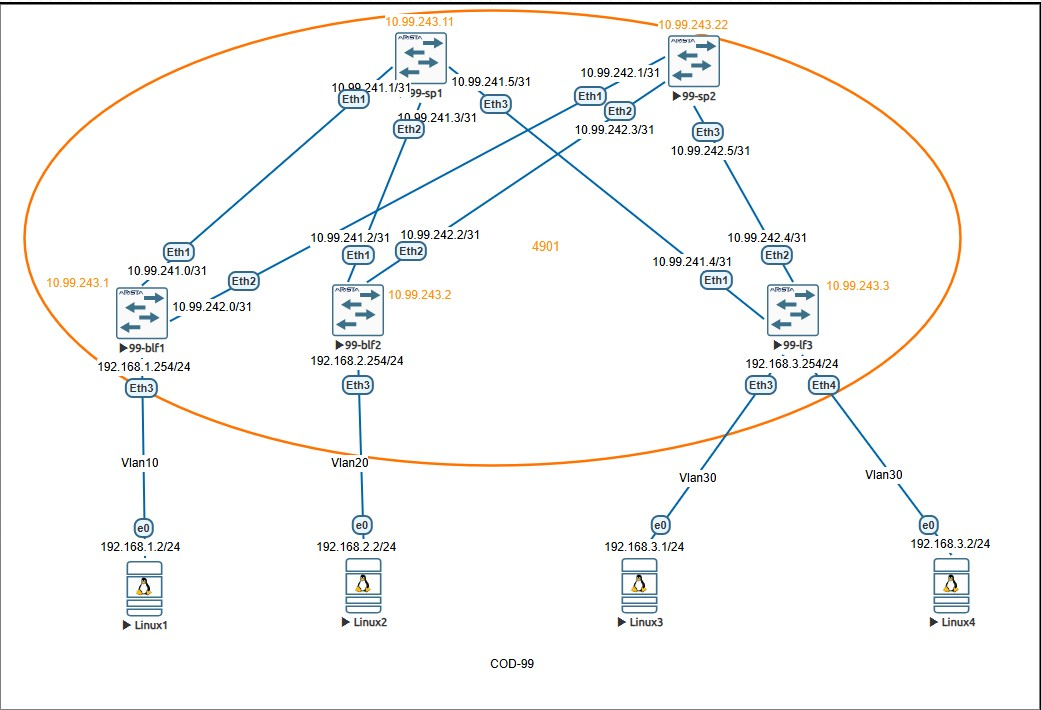
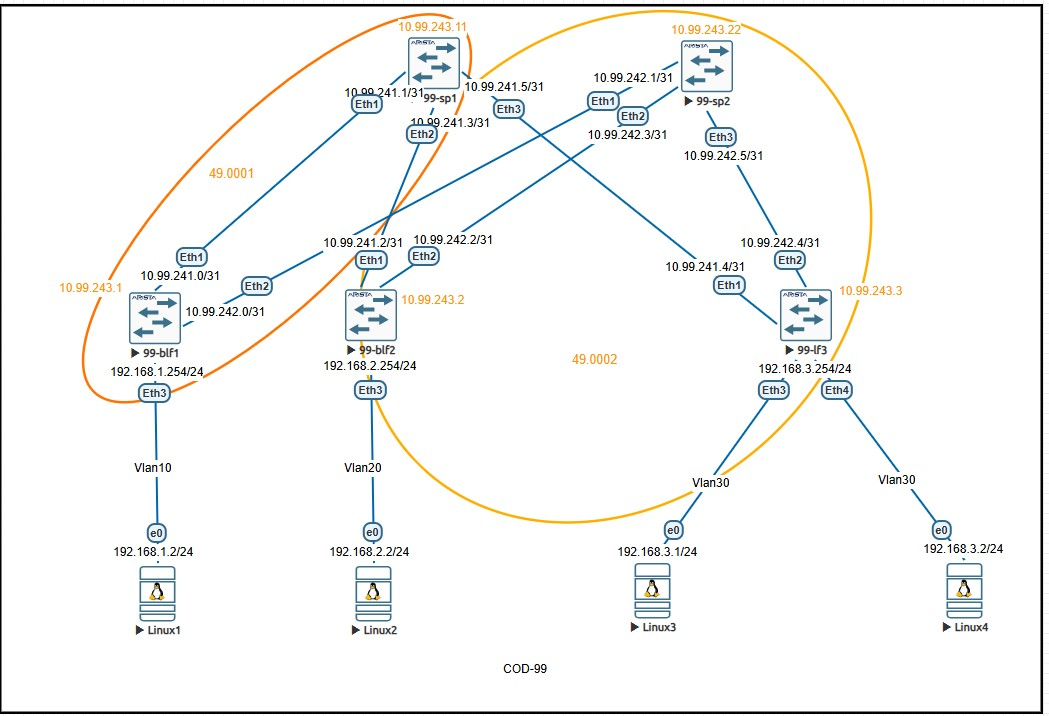
2

diff --git a/labs/lab_03(IS-IS)/README.md b/labs/lab_03(IS-IS)/README.md
@@ -132,6 +132,26 @@ interface Vlan10
  ### 99-blf2 (Border Leaf 2)
  ```bash
  configure terminal
+
+ ip routing
+
+router isis UNDERLAY
+   net 49.0002.0100.9924.3002.00
+   is-type level-1-2
+   
+   address-family ipv4 unicast
+      maximum-paths 4
+      redistribute ipv4 connected level-1
+      redistribute ipv4 connected level-2
+   
+   bfd all-interfaces
+   log-adjacency-changes
+   metric-style wide
+   hello-interval level-1 3
+   hello-interval level-2 1
+   hello-multiplier level-1 3
+   hello-multiplier level-2 3
+   
 vlan 20
    name SERVER-NETWORK-2
 
@@ -140,20 +160,25 @@ interface Ethernet1
    mtu 9194
    no switchport
    ip address 10.99.241.2/31
-   ip ospf dead-interval 3
-   ip ospf hello-interval 1
-   ip ospf network point-to-point
-   ip ospf area 0.0.0.0
+   isis enable UNDERLAY
+   isis circuit-type level-2-only
+   isis metric 10
+   isis network point-to-point
+   isis bfd
+   no shutdown
+
 
 interface Ethernet2
    description to-99-sp2-E2
    mtu 9194
    no switchport
    ip address 10.99.242.2/31
-   ip ospf dead-interval 3
-   ip ospf hello-interval 1
-   ip ospf network point-to-point
-   ip ospf area 0.0.0.0
+   isis enable UNDERLAY
+   isis circuit-type level-2-only
+   isis metric 10
+   isis network point-to-point
+   isis bfd
+   no shutdown
 
 interface Ethernet3
    description to-Linux2
@@ -161,27 +186,17 @@ interface Ethernet3
    switchport access vlan 20
 
 interface Loopback0
-   description OSPF Router-ID and Underlay Management
+   description IS-IS Router-ID and Underlay Management
    ip address 10.99.243.2/32
+   isis enable UNDERLAY
+   isis passive
 
-interface Vlan20
+iinterface Vlan20
    description Server-Network-2
    ip address 192.168.2.254/24
-
-ip routing
-
-router ospf 1
-   router-id 10.99.243.2
-   bfd default
-   passive-interface default
-   no passive-interface Ethernet1
-   no passive-interface Ethernet2
-   no passive-interface Ethernet3
-   passive-interface Vlan20
-   network 10.99.243.2/32 area 0.0.0.0
-   network 192.168.2.0/24 area 0.0.0.10
-   max-lsa 12000
-   maximum-paths 4
+   isis enable UNDERLAY
+   isis circuit-type level-1
+   isis passive
 
  ```
 ### 99-lf3 (Leaf 3)
